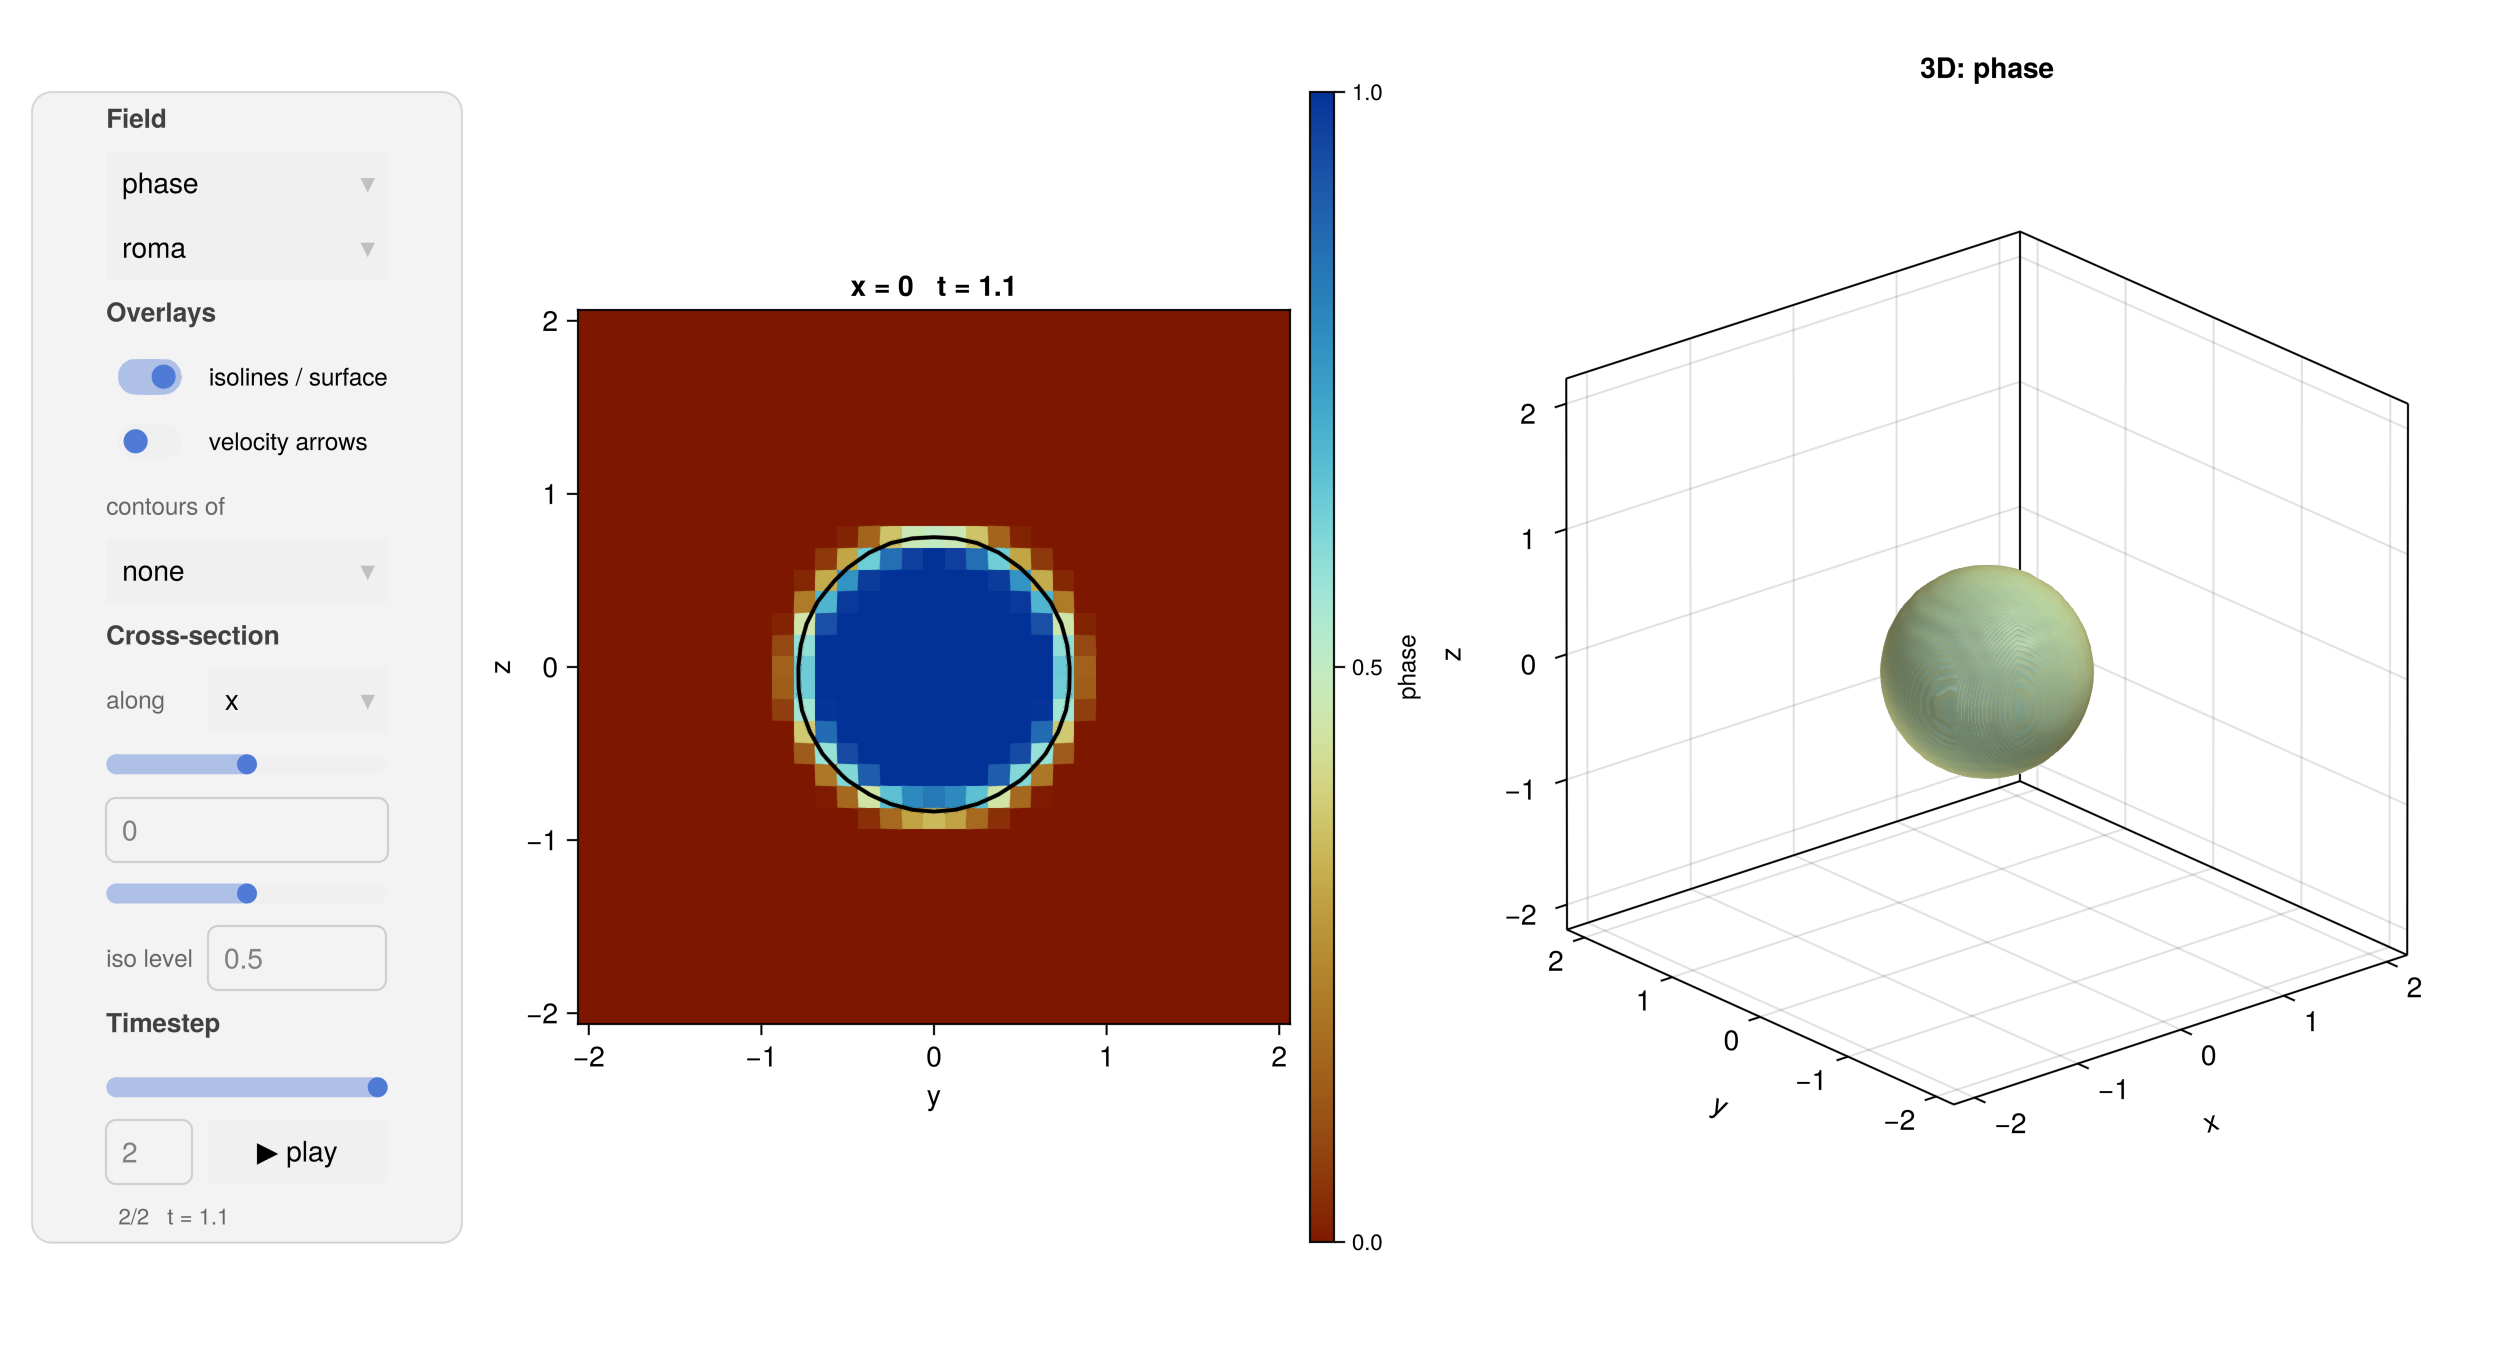
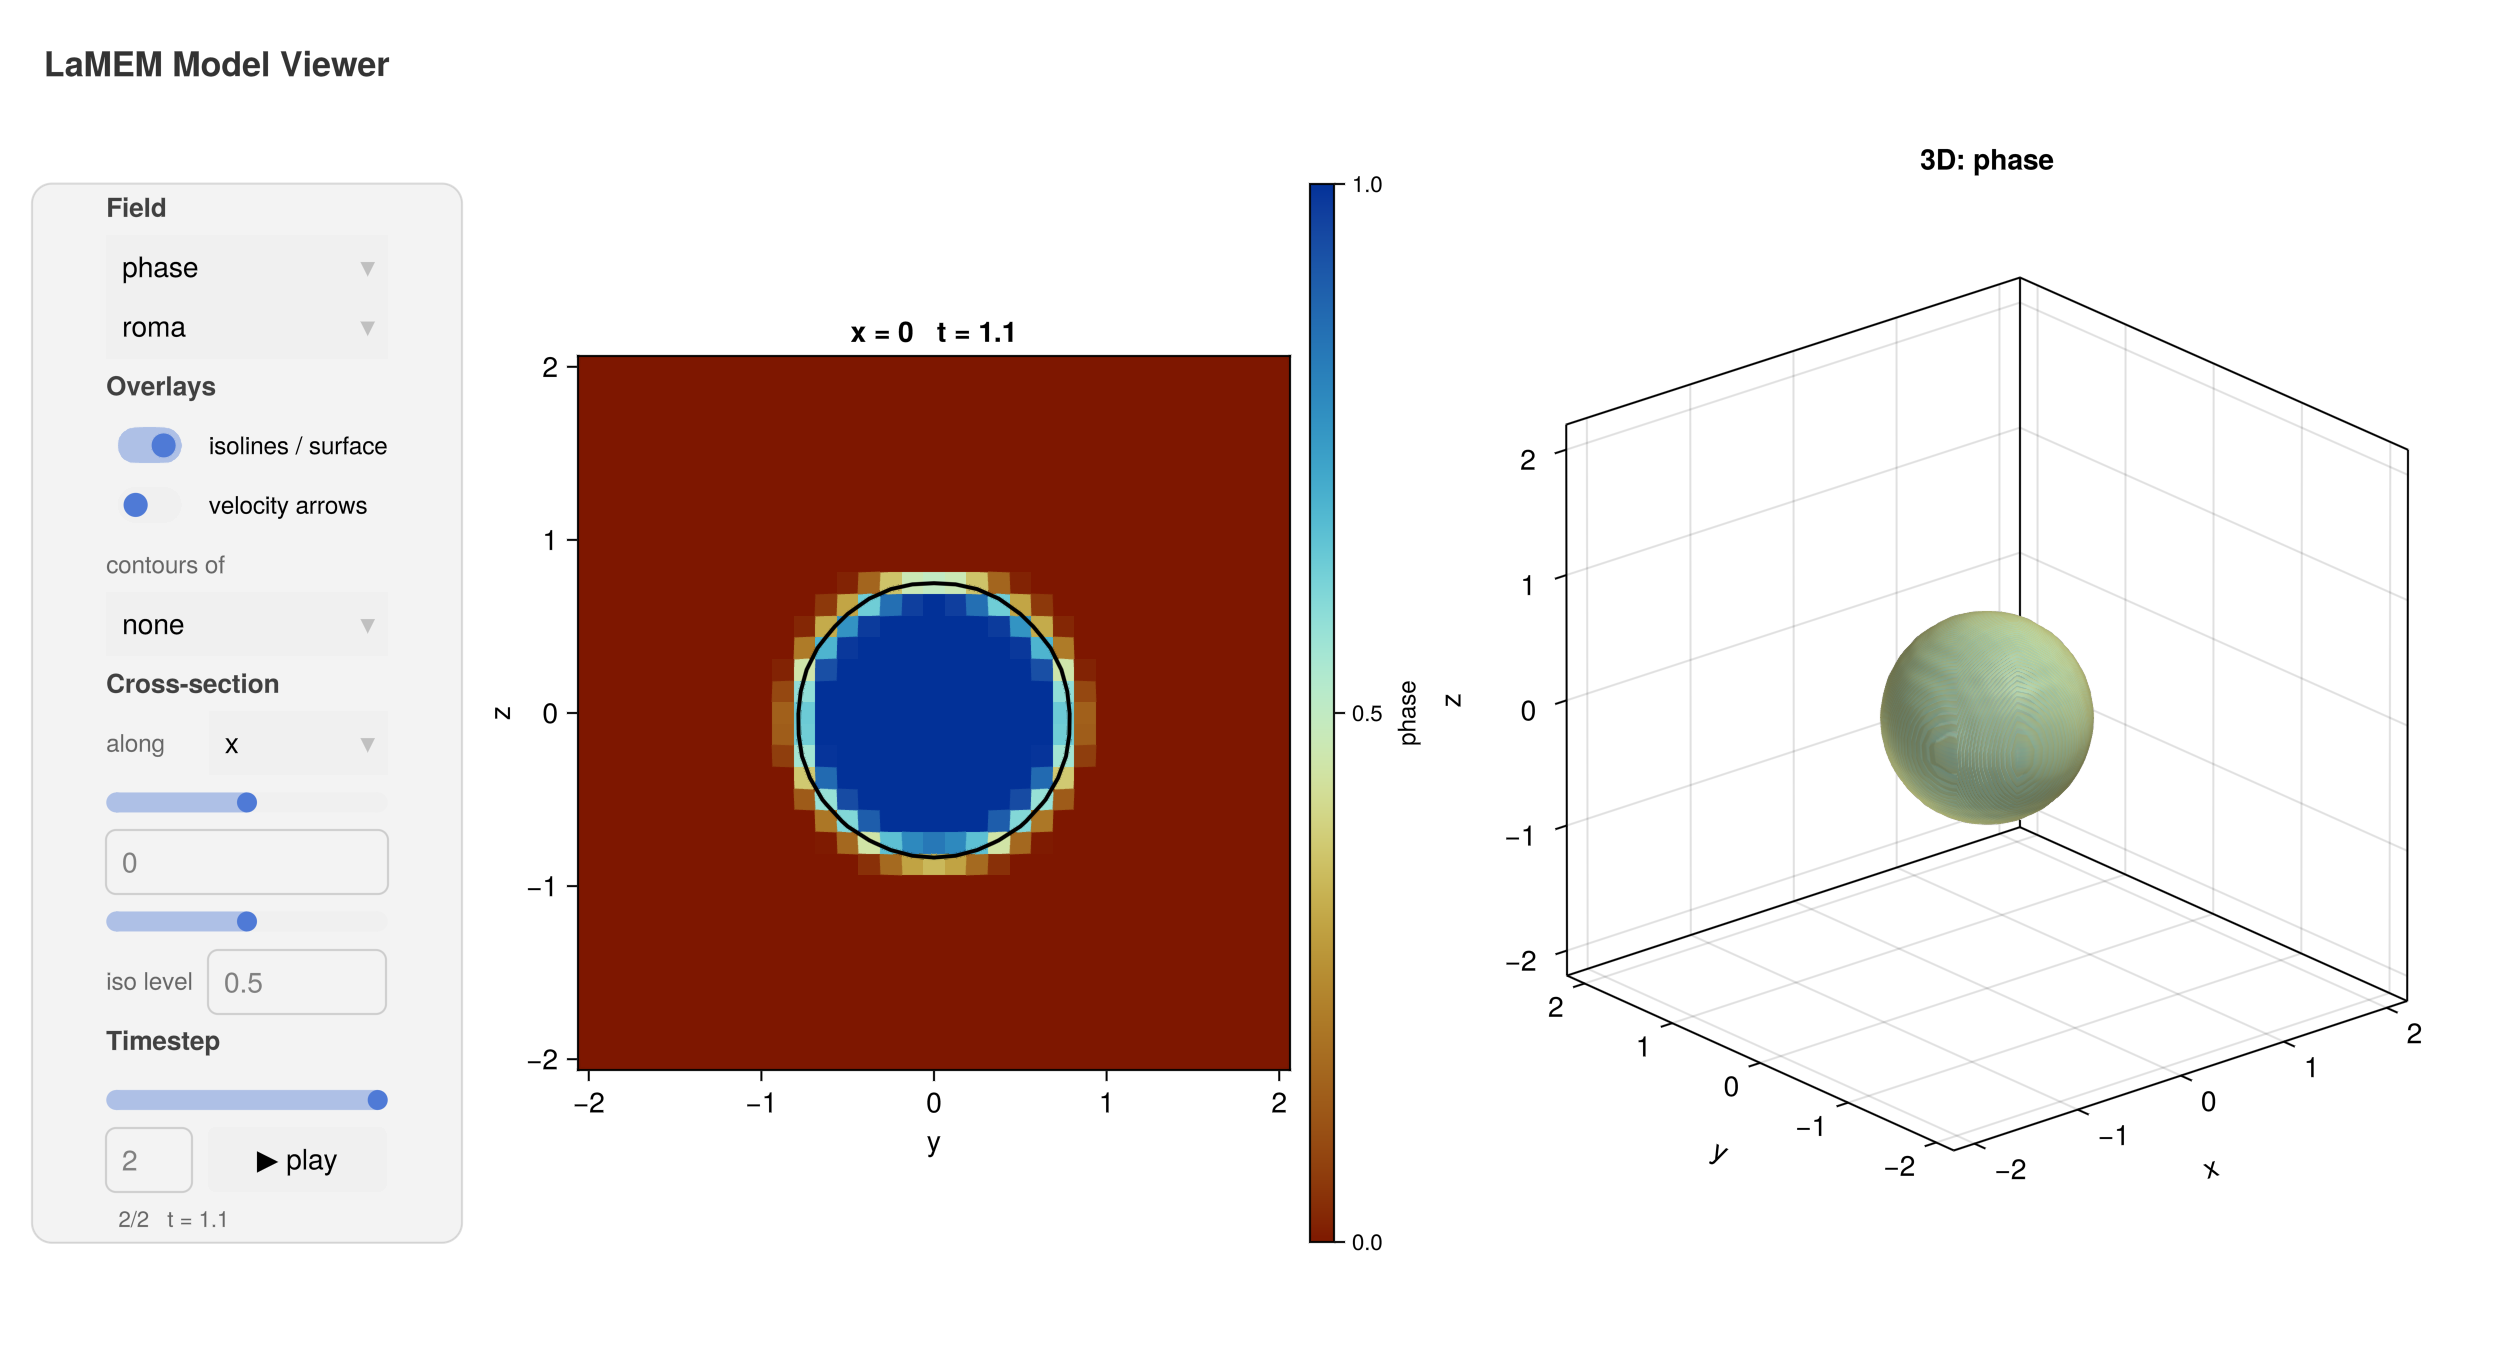
Name the window, and say when the 3D view needs GLMakie
The viewer is now headed "LaMEM Model Viewer".

An empty 3D panel is easy to mistake for a broken viewer: CairoMakie has no 3D
rasterizer, so `volume!` and the 3D `contour!` draw nothing there while the
cross-section renders fine. Warn about that when the viewer opens under a backend
that is not GLMakie, naming what to run instead, and add `threed=false` for
leaving the panel out on purpose.

diff --git a/docs/src/viewer.md b/docs/src/viewer.md
@@ -12,8 +12,9 @@ julia> view_model(model)
 ![The viewer on a 3D model](assets/viewer_subduction.png)
 
 Use **GLMakie** for this: the 3D view needs a real 3D rasterizer, which CairoMakie does not
-have. Under CairoMakie the cross-section still works and the 3D panel stays empty, which is
-enough to write a movie on a machine without a display (see below).
+have. Under CairoMakie the cross-section still works and the 3D panel stays empty -- the
+viewer says so when it opens -- which is enough to write a movie on a machine without a
+display (see below). Pass `threed=false` to leave the 3D panel out deliberately.
 
 ## 2D and 3D models
 
@@ -78,6 +79,7 @@ julia> view_model(model, field=:velocity, dim=1, colormap=:vik, isosurface=false
 - `field`, `dim`: the field and, for a vector field, the component
 - `x`, `y`, `z`: where to cut the cross-section
 - `colormap`: any Makie colormap
+- `threed`: `false` leaves the 3D panel out, even for a 3D model
 - `isosurface`, `arrows`: whether those start switched on (the isosurface defaults to on for
   a 3D model, and is just the isolines for a 2D one)
 - `contours`: a second field to contour over the heatmap, e.g. `contours=:temperature`
